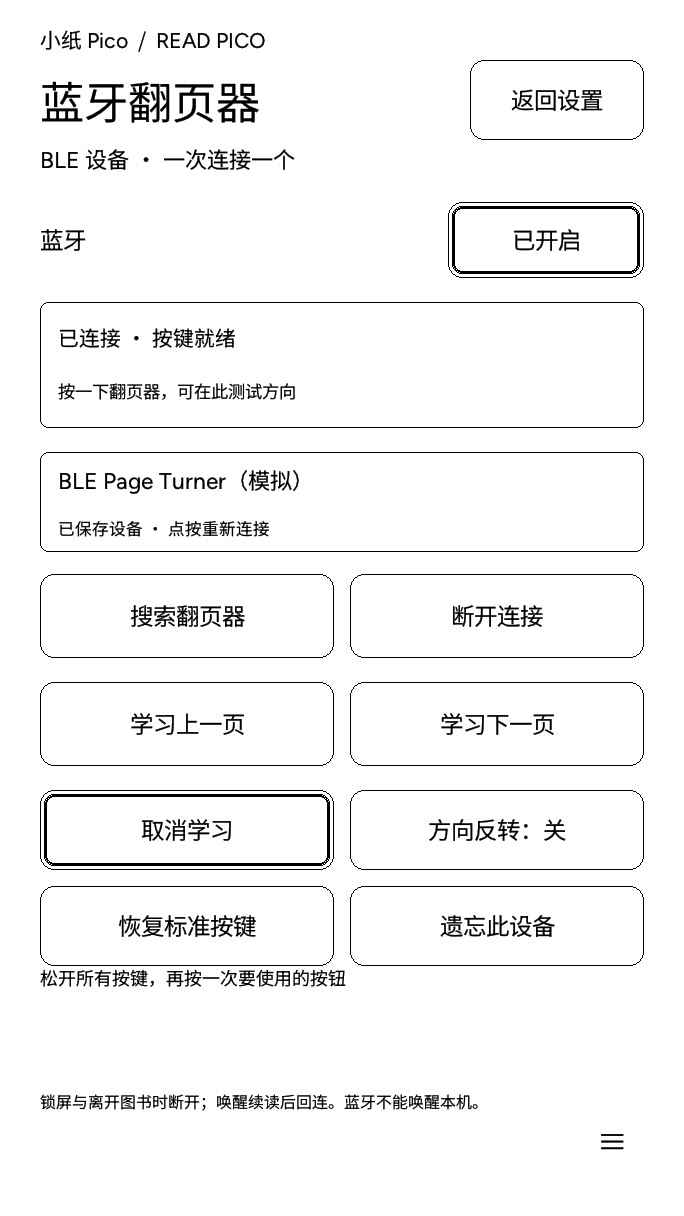
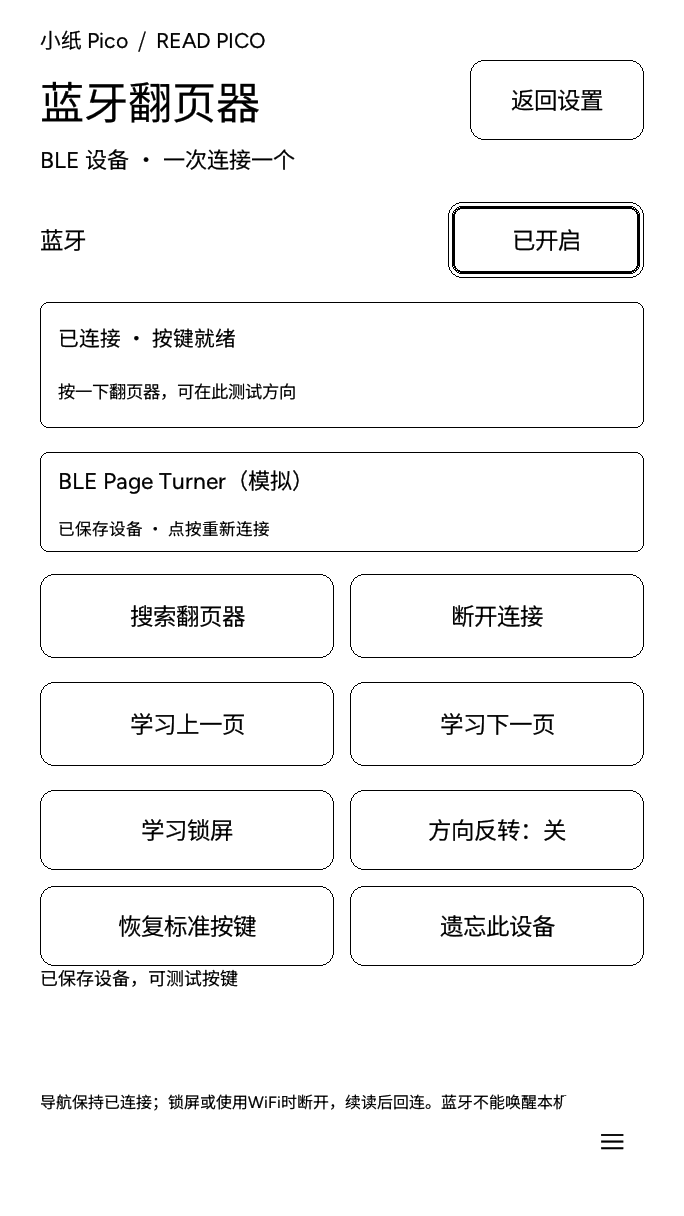
fix(web): publish refreshed site with mandatory hardware reset

diff --git a/web/src/utils/reset.ts b/web/src/utils/reset.ts
@@ -1,8 +1,6 @@
 /* SPDX-License-Identifier: Apache-2.0
- * 中文：先走 ROM 软复位命令让 bootloader 退出并启动应用，再用 esptool 硬复位
- * 时序兜底；任一成功即算复位已发送。
- * English: First ask the ROM to leave the loader and boot the app, then fall
- * back to the esptool hard-reset pulse; either success counts as sent.
+ * 中文：退出烧录协议后仍发送小纸的硬件复位脉冲；命令应答不代表设备已经重启。
+ * English: Send the Pico hardware-reset pulse after leaving the flash protocol; an ACK does not establish a reboot.
  */
 
 export interface FlasherLogger {
@@ -26,29 +24,26 @@ function delay(ms: number): Promise<void> {
   return promise;
 }
 
-/**
- * Pico 专有复位逻辑：软复位命令优先，RTS 硬复位脉冲兜底
- */
+// 退出烧录协议后执行板级RTS复位。/ Reset via board RTS after leaving the flash protocol.
 export async function picoRestartTransport(
   esploader: EspLoaderLike,
   transport: TransportLike,
   pause: (ms: number) => Promise<void> = delay,
   logger?: FlasherLogger
-): Promise<'soft' | 'hard' | 'unconfirmed'> {
+): Promise<'hard' | 'unconfirmed'> {
   try {
-    // 软复位成功即停止，避免USB重枚举后再次操作已失效的串口信号。
-    // Stop after a successful soft reset to avoid signaling a stale port after USB re-enumeration.
+    // ESP32-S3 stub可应答但仍驻留，不能因ACK跳过板级复位。
+    // The ESP32-S3 stub may ACK while remaining active; never skip board reset on that ACK.
     await esploader.flashBegin(0, 0);
     await esploader.flashFinish(true);
-    logger?.log('ROM 软复位命令发送成功 (flashBegin 0 + flashFinish true)');
-    return 'soft';
+    logger?.log('退出烧录命令已应答，继续发送硬件复位脉冲');
   } catch (err: unknown) {
     const message = err instanceof Error ? err.message : String(err);
     logger?.log(`软复位未响应，尝试硬复位时序: ${message}`);
   }
 
-  // 软复位失败时才发送RTS脉冲，DTR保持非下载态。
-  // Send an RTS pulse only after soft reset fails, keeping DTR outside download state.
+  // 恢复实机曾可用的必发RTS脉冲，DTR保持非下载态。
+  // Restore the previously working mandatory RTS pulse, keeping DTR outside download state.
   try {
     await transport.setDTR(false);
     await transport.setRTS(true);

diff --git a/web/src/utils/flasher.ts b/web/src/utils/flasher.ts
@@ -161,7 +161,7 @@ export class PicoFlasher {
         }
       );
 
-      this.onLog?.(resetSent === 'soft' ? '软复位命令执行成功' : resetSent === 'hard' ? '已发送 RTS 硬复位脉冲兜底' : '复位未确认，请手动重启并核对版本');
+      this.onLog?.(resetSent === 'hard' ? '已执行 RTS 硬件复位脉冲' : '复位未确认，请手动重启并核对版本');
 
       try {
         await this.transport.disconnect();
@@ -172,7 +172,7 @@ export class PicoFlasher {
       this.updateState(
         'done',
         resetSent !== 'unconfirmed'
-          ? '固件写入成功，已发送重启指令。请在设备开机图底部核对固件版本。'
+          ? '固件写入完成，已执行硬件复位脉冲。请查看设备是否启动并核对版本。'
           : '固件写入完成，但未确认复位成功。请手动重启设备并核对版本。',
         100,
         totalSize,

diff --git a/web/README.md b/web/README.md
@@ -1,8 +1,8 @@
 # PageRest 网站 / PageRest Website
 
-本目录是 React、TypeScript 和 Vite 静态网站，包含产品介绍、界面截图和 Web Serial 固件烧录工具。网站通过 GitHub Actions 构建并发布到 GitHub Pages。
+本目录是 React、TypeScript 和 Vite 静态网站，包含产品介绍、界面截图和 Web Serial 固件烧录工具。网站可通过既有Cloudflare Pages的read-pico项目随main自动部署；GitHub Pages工作流保留。
 
-This directory contains the React, TypeScript and Vite static website: product information, screenshots and the Web Serial firmware flasher. GitHub Actions builds and deploys it to GitHub Pages.
+This directory contains the React, TypeScript and Vite static website: product information, screenshots and the Web Serial firmware flasher. The existing Cloudflare Pages read-pico project deploys main automatically; the GitHub Pages workflow remains available.
 
 ## 本地开发 / Local development
 
@@ -69,8 +69,8 @@ Read/format failures clear old selections; generations discard late results from
 先构建固件，再在 `web/` 执行 `npm run test:firmware`（Node24），使用实际full/app镜像验证导入、相同升级负载、统一入口内容识别/地址/增量全擦拒绝、损坏与截断。选择文件/校验不访问串口；开始烧录才请求设备。外部网站上的“An unknown system error has occurred”仍须结合具体网址和发生阶段排查，不能仅凭字样断定BIN损坏。
 Build firmware first, then run `npm run test:firmware` in `web/` (Node24) against actual full/app images, covering import, identical upgrade payloads, unified content/address planning, app erase rejection, corruption and truncation. Selection/validation does not access serial; flashing requests a device. Diagnosing that generic error on another site still requires the URL and failure stage; the message alone does not establish a damaged BIN.
 
-刷机错误保留选择串口/握手/写入阶段与原始异常名，取消不再重复弹窗，部分写入失败不自动重试。软复位成功即停止发送USB信号；写入完成而两种复位都失败时，显示手动重启提示，不能当作已确认启动。对应测试：`npm run test:flasher`（模拟边界，不访问设备）。线上发布需另行部署本构建，修改本地文件不会更新网站。
-Flashing errors retain the chooser/handshake/write stage and original exception name. Cancellation does not reopen the chooser and partial writes are not retried. Soft-reset success stops USB signaling; when both resets fail after writing, show manual restart without claiming a confirmed boot. Run `npm run test:flasher` with mocked boundaries and no device access. Local edits require a separate deployment to update the public site.
+刷机错误保留选择串口/握手/写入阶段与原始异常名，取消不再重复弹窗，部分写入失败不自动重试。退出烧录协议的应答不能证明重启；应答或失败后均发送DTR=false、RTS=true等待200ms、RTS=false等待200ms的板级复位脉冲。信号执行失败显示复位未确认和手动重启提示，脉冲执行完成也仍须查看设备启动及版本。对应测试：`npm run test:flasher`（模拟边界，不访问设备）。线上发布需另行部署本构建，修改本地文件不会更新网站。
+Flashing errors retain the chooser/handshake/write stage and original exception name. Cancellation does not reopen the chooser and partial writes are not retried. A flash-protocol ACK does not establish reboot. After either ACK or failure, execute the board reset: DTR=false, RTS=true for200ms, then RTS=false for200ms. Signal failure reports unconfirmed reset/manual restart; even a completed pulse still requires device boot/version confirmation. Run `npm run test:flasher` with mocked boundaries and no device access. Local edits require a separate deployment to update the public site.
 
 
 ## 首页与截图 / Homepage and screen assets
@@ -86,3 +86,9 @@ Run npm run test:flasher-ui in web to exercise real component logic with hook sc
 
 发布静态文件保留public/THIRD_PARTY_LICENSES.txt内的依赖许可；升级已打包依赖版本时同步更新该文件。
 Preserve public/THIRD_PARTY_LICENSES.txt in static distribution; refresh it when upgrading bundled dependency versions.
+
+
+## 当前生产站点 / Current production site
+
+Cloudflare Pages项目`read-pico`连接`fengcheng01/read_pico_firmware`的`main`，根目录`web`、构建`npm run build`、输出`dist`，自定义域`pico.gofree.kdns.fr`。本地提交或功能分支打包不会更新生产；必须推送官网改动到该生产分支并核对Cloudflare部署成功。`web/.node-version`固定Node24。不将固件源码、source.zip、本机日志或私有文件放入`dist`。
+Cloudflare Pages project`read-pico` tracks`main` in`fengcheng01/read_pico_firmware`, with root`web`, command`npm run build`, output`dist` and domain`pico.gofree.kdns.fr`. A local commit or feature-branch build does not update production; push website changes to the production branch and verify the Cloudflare deployment. `web/.node-version` pins Node24. Never put firmware source, source.zip, local logs or private files in`dist`.

diff --git a/docs/CHANGELOG.md b/docs/CHANGELOG.md
@@ -3,6 +3,11 @@
 按日期和作者简述对用户可见的功能变化；详细实现历史见 Git。使用方法见 [README](../README.zh-CN.md)。
 User-visible changes by date and author; Git retains implementation history. See [README](../README.md) for usage.
 
+## 0.6.12 · 2026-10-16
+
+- 官网同步发布PageRest首页、统一BIN烧录和当前界面；烧录结束不因命令应答跳过RTS硬件复位，区分脉冲完成与设备启动验收。公开页面继续隐藏本项目仓库入口，Cloudflare生产分支main自动构建web/dist。
+  Publish the PageRest homepage, unified BIN flasher and current screens. A protocol ACK no longer skips the RTS hardware reset; pulse completion remains separate from device boot acceptance. Hide project repository links and build web/dist automatically from Cloudflare's production main branch.
+
 ## 0.6.9 · 2026-10-16
 
 - 官网暂时移除本项目的GitHub、源码与发行页入口，保留本地烧录和第三方许可声明。
